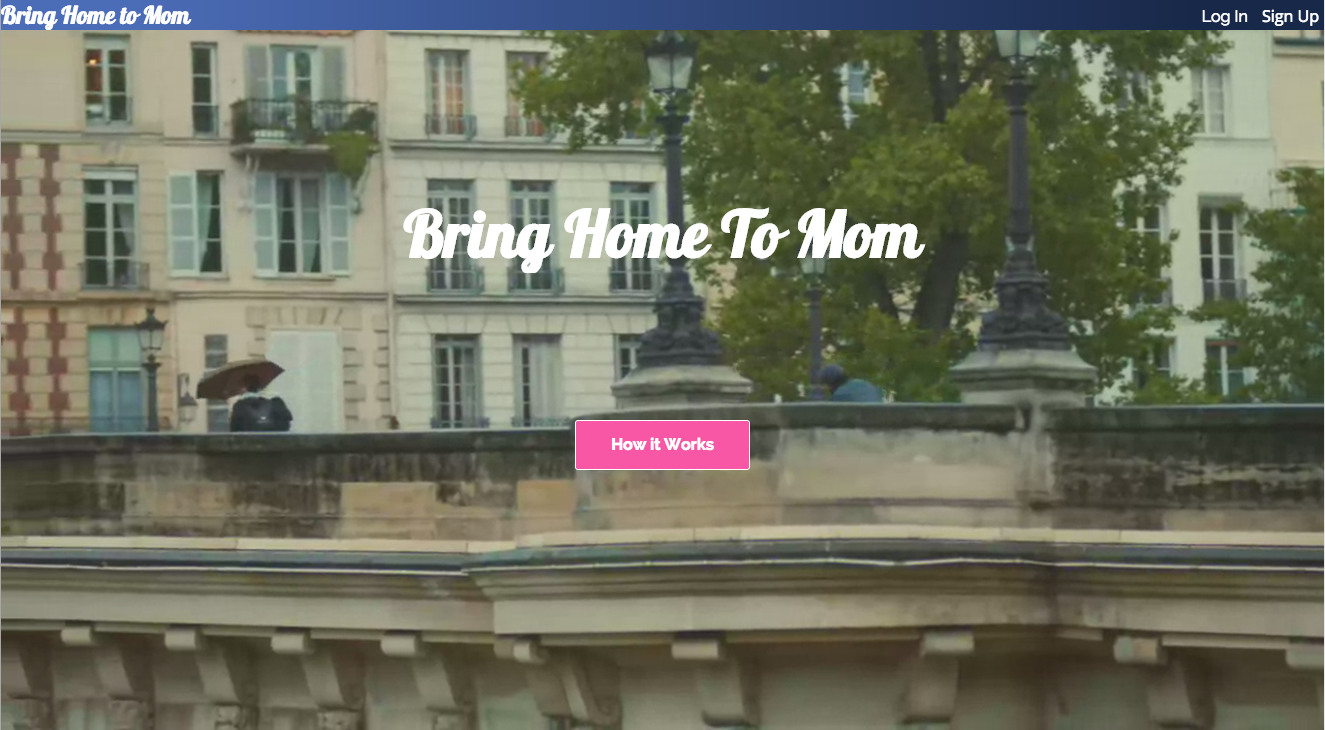
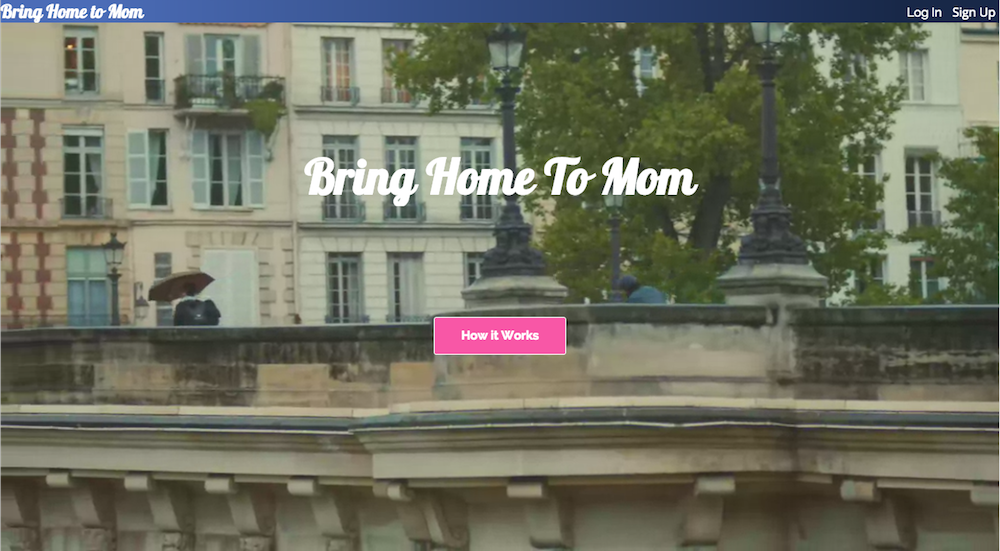
Tweaks to ReadMe file

diff --git a/README.md b/README.md
@@ -1,9 +1,10 @@
-![Click for Product Demo Video](https://raw.githubusercontent.com/berkjon/bring-home-to-mom/master/public/images/screenshots/01_landing_page_webm_play.png "Click for Product Demo Video")
+![Landing Page](https://raw.githubusercontent.com/berkjon/bring-home-to-mom/master/public/images/screenshots/01_landing_page_webm_clean.png "Landing Page")
 
+*[Product Demo Video](https://www.youtube.com/watch?v=IlpoisuHNxc "Watch on YouTube") on YouTube*
 
 [Bring Home To Mom](http://bringhometomom.herokuapp.com/) is a match-making and date-planning app for parents. Parents create profiles for their children, browse and filter for potential matches, plan dates while communicating with the other child's parent, and split the cost of the upcoming date so everything is prepaid!
 
-Team Members: Jonathan Berk, Sofie Garden, Kevin Ceballos, Tony Mai
+**Team Members**: Jonathan Berk, Sofie Garden, Kevin Ceballos, Tony Mai
 
 We utilized the Agile development techniques to deliver a complete, feature-full product under a tight 7-day period. We created the structure/backbone of our app as a team, pair-programmed on challenging features, and worked solo to learn and implement new technologies. When working individually, we focused on discrete vertical slices (separate features) to ensure minimal Git workflow conflicts, and when conflicts arose, we resolved them systematically.
 
@@ -37,21 +38,25 @@ We solidified our knowledge on existing technologies while learning new APIs (St
     2. Planning -- Accepted by both parents and in the process of planning; not yet paid
     3. Upcoming -- Fully paid by both parents; children have been notified
     4. Past -- Completed dates
+
 ![Parent Dashboard](https://raw.githubusercontent.com/berkjon/bring-home-to-mom/master/public/images/screenshots/03_parent_dashboard.png "Parent Dashboard")
 
 #### 3) Potential Matches
 * Your children and search filters appear on left; matches appear on right
 * Select one of your children and adjust search filters to narrow down potential matches
   * Matches are updated on the fly as you adjust criteria
+
 ![Potential Matches](https://raw.githubusercontent.com/berkjon/bring-home-to-mom/master/public/images/screenshots/04_potential_matches.png "Potential Matches")
 
 #### 4) Dropdown Notifications
 * Dropdown menu visible from any page, showing incoming (pending) date requests, and dates still in planning phase
+
 ![Dropdown Notifications](https://raw.githubusercontent.com/berkjon/bring-home-to-mom/master/public/images/screenshots/05_dropdown_notifications.png "Dropdown Notifications")
 
 #### 5) Detailed Profile View
 * View details of a potential match
 * Click link to propose a date
+
 ![Detailed Profile View](https://raw.githubusercontent.com/berkjon/bring-home-to-mom/master/public/images/screenshots/06_detailed_profile.png "Detailed Profile View")
 
 #### 6) Design A Date
@@ -66,8 +71,10 @@ We solidified our knowledge on existing technologies while learning new APIs (St
 
 #### 7) Payment
 * Stripe integration allows both parents to split the cost of the selected date
+
 ![Payment](https://raw.githubusercontent.com/berkjon/bring-home-to-mom/master/public/images/screenshots/08_payment.png "Payment")
 
 #### 8) MMS Notifications
 * After both parents have paid, their children are sent a MMS notification with details of the upcoming event
+
 ![MMS Notifications](https://raw.githubusercontent.com/berkjon/bring-home-to-mom/master/public/images/screenshots/09_mms_both.png "MMS Notifications")
